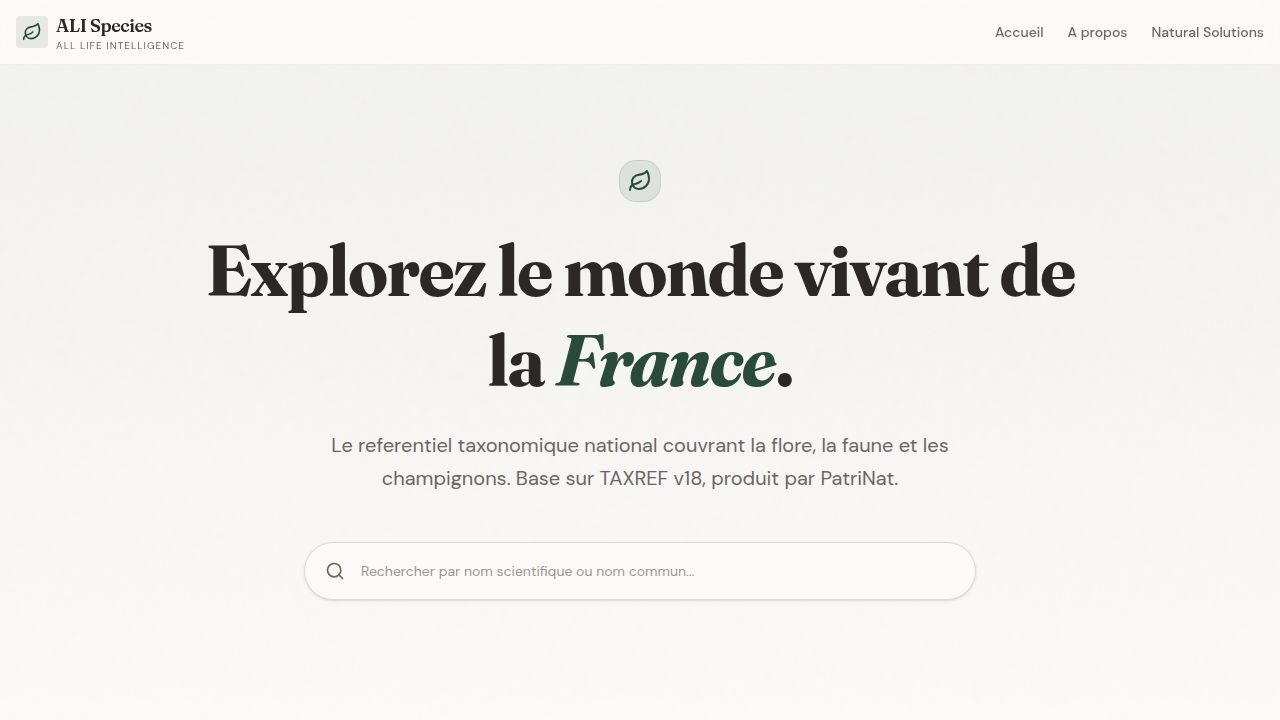
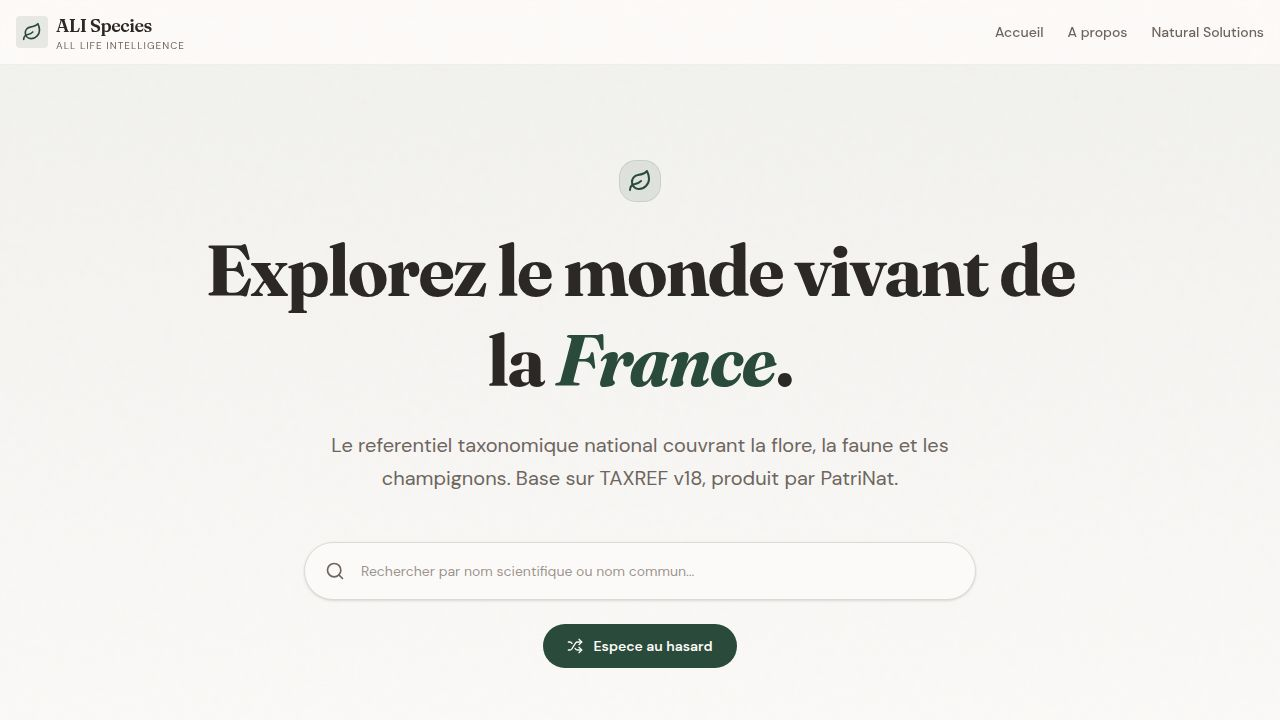
Add interactive map displaying species occurrence data
Replaces static map images with an interactive canvas-based map using CartoDB tiles and GBIF occurrence data, resolving previous display issues.

Replit-Commit-Author: Agent
Replit-Commit-Session-Id: 71650878-86ab-4b17-84a3-9e1638554659
Replit-Commit-Checkpoint-Type: full_checkpoint
Replit-Commit-Event-Id: 6e2041de-c3bb-4a64-8537-5d68dc10723d
Replit-Commit-Screenshot-Url: https://storage.googleapis.com/screenshot-production-us-central1/38183778-ae0d-429b-93c2-632126d6a633/71650878-86ab-4b17-84a3-9e1638554659/IbRbGhh
Replit-Helium-Checkpoint-Created: true

Changed region(s): [[0.4062, 0.8556, 0.5938, 0.9472]]

diff --git a/artifacts/taxref-explorer/src/pages/taxon.tsx b/artifacts/taxref-explorer/src/pages/taxon.tsx
@@ -21,9 +21,88 @@ import { useParams, Link, useLocation } from "wouter";
 import { formatRank, formatHabitat, formatStatus, taxonUrl, parseCdNomFromParam } from "@/lib/constants";
 import { Skeleton } from "@/components/ui/skeleton";
 import { ChevronRight, ChevronDown, Image as ImageIcon, MapPin, Tag, Globe, FileText, Layers, Link2, BookOpen, BarChart3, ExternalLink, Shield, ScrollText, Activity, AlertTriangle, Info, Users, X, ZoomIn, Shuffle } from "lucide-react";
-import { useState, useMemo, useCallback, type ReactNode } from "react";
+import { useState, useMemo, useCallback, useRef, useEffect, type ReactNode } from "react";
 import { Helmet } from "react-helmet-async";
 import { Badge } from "@/components/ui/badge";
+
+function GbifMiniMap({ gbifKey }: { gbifKey: number }) {
+  const canvasRef = useRef<HTMLCanvasElement>(null);
+  const [loaded, setLoaded] = useState(false);
+
+  useEffect(() => {
+    const canvas = canvasRef.current;
+    if (!canvas) return;
+    const ctx = canvas.getContext("2d");
+    if (!ctx) return;
+
+    const w = 512;
+    const h = 256;
+    canvas.width = w;
+    canvas.height = h;
+
+    let cancelled = false;
+    const tiles = [
+      [1, 0, 0], [1, 1, 0],
+      [1, 0, 1], [1, 1, 1],
+    ] as const;
+
+    const baseTiles = tiles.map(([z, x, y]) => {
+      const img = new Image();
+      img.crossOrigin = "anonymous";
+      img.src = `https://basemaps.cartocdn.com/light_all/${z}/${x}/${y}.png`;
+      return { img, x, y };
+    });
+
+    const overlayTiles = tiles.map(([z, x, y]) => {
+      const img = new Image();
+      img.crossOrigin = "anonymous";
+      img.src = `https://api.gbif.org/v2/map/occurrence/density/${z}/${x}/${y}@2x.png?taxonKey=${gbifKey}&bin=hex&hexPerTile=20&style=green.poly`;
+      return { img, x, y };
+    });
+
+    let loadedCount = 0;
+    const totalExpected = baseTiles.length;
+
+    function draw() {
+      if (cancelled) return;
+      ctx!.clearRect(0, 0, w, h);
+      for (const t of baseTiles) {
+        const dx = t.x * (w / 2);
+        const dy = t.y * (h / 2);
+        try { ctx!.drawImage(t.img, dx, dy, w / 2, h / 2); } catch {}
+      }
+      for (const t of overlayTiles) {
+        const dx = t.x * (w / 2);
+        const dy = t.y * (h / 2);
+        try { ctx!.drawImage(t.img, dx, dy, w / 2, h / 2); } catch {}
+      }
+    }
+
+    for (const t of baseTiles) {
+      t.img.onload = () => {
+        loadedCount++;
+        if (loadedCount >= totalExpected) {
+          draw();
+          setLoaded(true);
+        }
+      };
+    }
+    for (const t of overlayTiles) {
+      t.img.onload = () => draw();
+      t.img.onerror = () => {};
+    }
+
+    return () => { cancelled = true; };
+  }, [gbifKey]);
+
+  return (
+    <canvas
+      ref={canvasRef}
+      className={`w-full h-auto rounded-t-2xl transition-opacity duration-300 ${loaded ? "opacity-100" : "opacity-0"}`}
+      style={{ aspectRatio: "2/1", background: "#e8ecf1" }}
+    />
+  );
+}
 
 function CollapsibleSection({ icon, title, count, children, defaultOpen = false, className = "" }: {
   icon: ReactNode;
@@ -555,37 +634,8 @@ export default function TaxonDetail() {
                   rel="noreferrer"
                   className="block relative group"
                 >
-                  <div className="relative w-full" style={{ aspectRatio: "2/1" }}>
-                    <img
-                      src="https://basemaps.cartocdn.com/light_nolabels/1/0/0.png"
-                      alt=""
-                      className="absolute top-0 left-0 w-1/2 h-1/2 object-cover"
-                    />
-                    <img
-                      src="https://basemaps.cartocdn.com/light_nolabels/1/1/0.png"
-                      alt=""
-                      className="absolute top-0 left-1/2 w-1/2 h-1/2 object-cover"
-                    />
-                    <img
-                      src="https://basemaps.cartocdn.com/light_nolabels/1/0/1.png"
-                      alt=""
-                      className="absolute top-1/2 left-0 w-1/2 h-1/2 object-cover"
-                    />
-                    <img
-                      src="https://basemaps.cartocdn.com/light_nolabels/1/1/1.png"
-                      alt=""
-                      className="absolute top-1/2 left-1/2 w-1/2 h-1/2 object-cover"
-                    />
-                    {[[0,0],[1,0],[0,1],[1,1]].map(([x,y]) => (
-                      <img
-                        key={`gbif-${x}-${y}`}
-                        src={`https://api.gbif.org/v2/map/occurrence/density/1/${x}/${y}@1x.png?taxonKey=${gbif.gbifKey}&bin=hex&hexPerTile=30&style=purpleYellow.point`}
-                        alt=""
-                        className={`absolute ${y === 0 ? "top-0" : "top-1/2"} ${x === 0 ? "left-0" : "left-1/2"} w-1/2 h-1/2 object-cover`}
-                        onError={(e) => { (e.target as HTMLImageElement).style.display = "none"; }}
-                      />
-                    ))}
-                  </div>
+                  <GbifMiniMap gbifKey={gbif.gbifKey} />
+                  <div className="absolute inset-0 bg-black/0 group-hover:bg-black/10 transition-colors rounded-t-2xl" />
                 </a>
                 <div className="px-3 py-2 bg-card flex items-center justify-between">
                   <span className="text-xs text-muted-foreground">Occurrences GBIF</span>